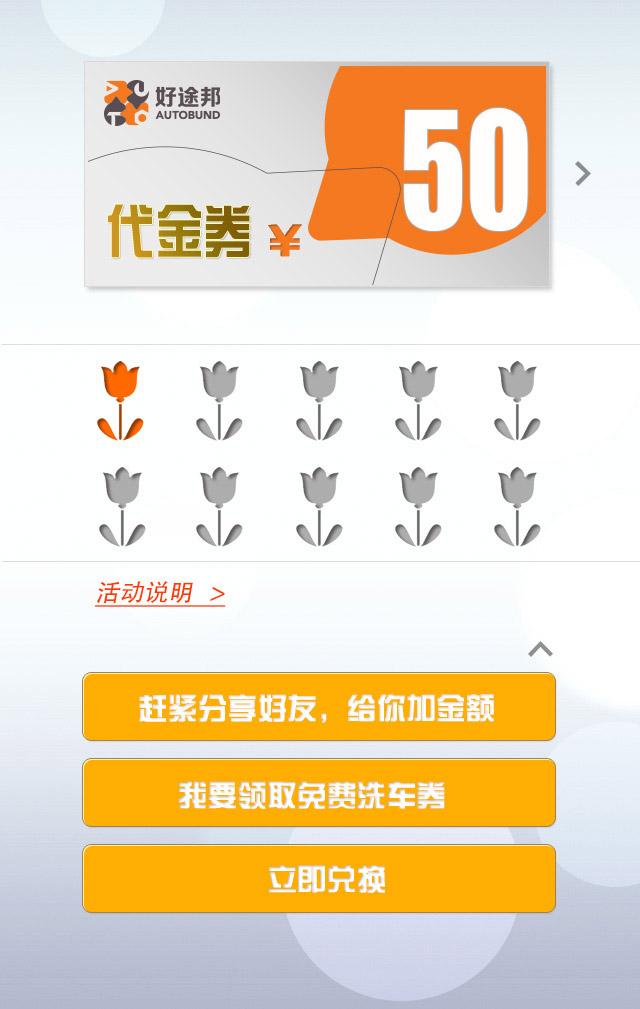
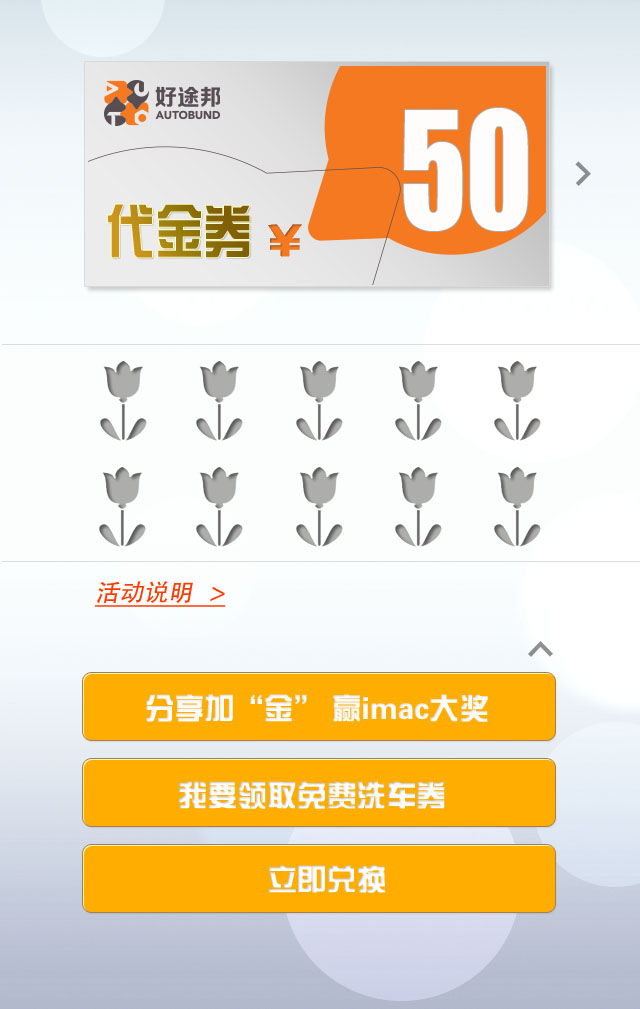
update flower logic

diff --git a/public/app.js b/public/app.js
@@ -344,18 +344,23 @@
 		this.stage.step();
 	};
 
+	/**
+		50到100, 5个人点亮全部，一个人两朵花
+		100到300， 10个人点亮全部，一个人一朵花
+		300到1000， 30个人点亮全部，三个人一朵花 
+	 */
 	game.flowerCount = function() {
 		var realRefers = game.params.refers - 1;
 
 		if (realRefers < 5) {
 			// x < 5, 50
-			return realRefers*2;
-		} else if (realRefers < 24){
-			// 5 <= x <= 2*9 + 1 + 5, 100
-			return (realRefers - 5) / 2;
-		} else if (realRefers < 73) {
-			// 24 < x < 5*9 + 4 + 24, 300
-			return (realRefers - 24) / 5;
+			return realRefers * 2;
+		} else if (realRefers < 14){
+			// 5 <= x <= 1*9 + 5, 100
+			return (realRefers - 5);
+		} else if (realRefers < 43) {
+			// 14 < x < 3 * 9 + 2 + 14, 300
+			return (realRefers - 14) / 3;
 		} else {
 			return 10;
 		}
